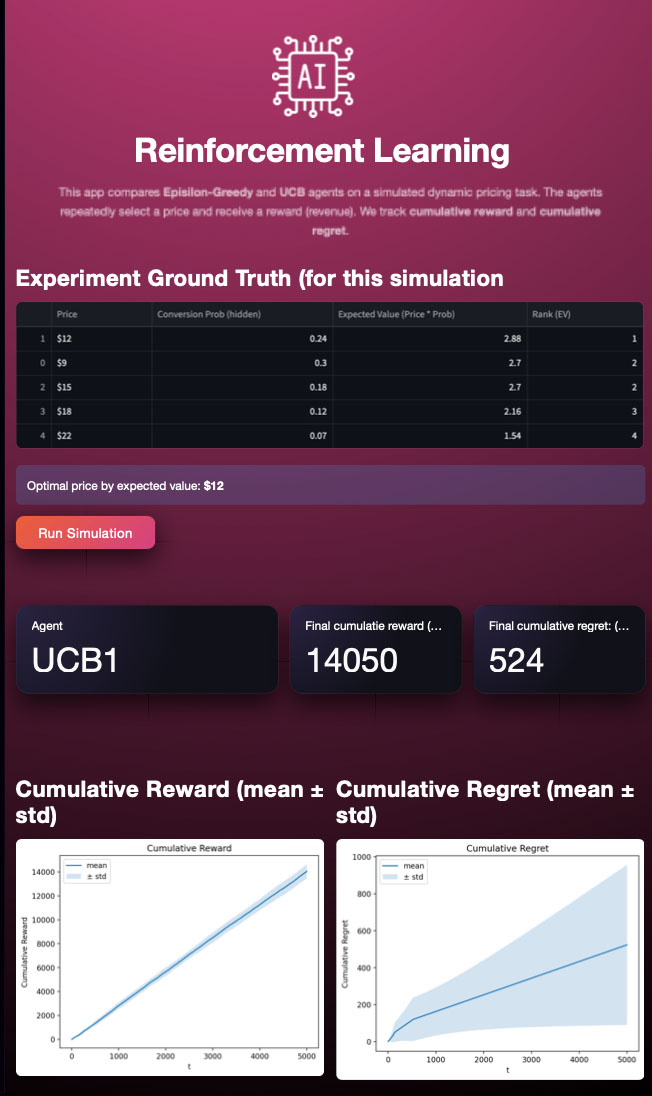
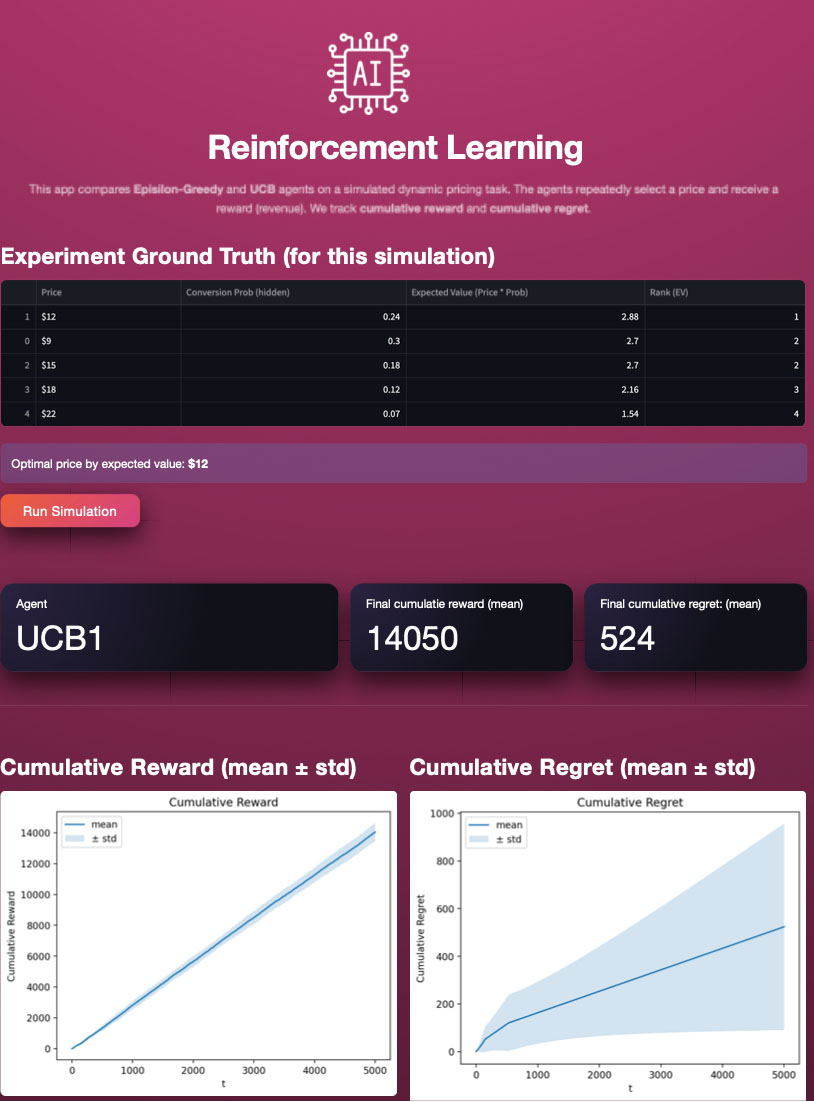
fix(ui-cleanup): Update README and clean up images

diff --git a/reinforcement-learning/app/app.py b/reinforcement-learning/app/app.py
@@ -162,7 +162,7 @@ def main():
     )
 
     # Show the "ground truth" expected values for this simulation (great for explantion)
-    st.subheader('Experiment Ground Truth (for this simulation')
+    st.subheader('Experiment Ground Truth (for this simulation)')
     ev_df = compute_expected_value_table(cfg.prices, cfg.probs)
     st.dataframe(ev_df, width='stretch')
 

diff --git a/README.md b/README.md
@@ -1,2 +1,93 @@
-# ai-ml
-A collection of cool AI and ML projects
+# AI/Machine Learning Portfolio
+
+## Overview
+
+This repository contains a curated portfolio of end-to-end AI/ML projects demonstrating practical, production-oriented machine learning skills across multiple domains.
+
+Each project focuses on:
+- real-world problem framing
+- sound modeling choices
+- proper evaluation metrics
+- interpretability and error analysis
+- deployable demos (where applicable)
+
+The goal of this portfolio is not academic breadth, but applied ML competence suitable for contract and consulting work.
+
+## Projects
+### Regression — Predictive Modeling
+**Focus**: Structured data regression
+- Feature engineering & preprocessing
+- Regularization (Ridge / Lasso)
+- Model evaluation & diagnostics
+- Clear business interpretation of results
+
+
+### Recommendation Systems
+**Focus**: User–item interaction modeling
+- Collaborative filtering
+- Baseline vs personalized models
+- Evaluation of recommendation quality
+- Practical recommendation logic
+
+### Time Series Forecasting
+**Focus**: Temporal demand forecasting
+- Train/validation splits respecting time
+- Feature engineering for seasonality & trends
+- Forecast evaluation and visualization
+- Deployment via interactive demo
+
+### Natural Language Processing (NLP) — Text Classification
+**Focus**: Unstructured text modeling
+- TF-IDF + Linear SVM pipeline
+- Hyperparameter tuning
+- Macro-F1 evaluation
+- Model explainability (token contributions)
+- Streamlit demo for live inference
+
+### Reinforcement Learning — Dynamic Pricing
+**Focus**: Sequential decision-making under uncertainty
+- Multi-armed bandit formulation
+- Epsilon-Greedy vs UCB1 comparison
+- Reward vs regret analysis
+- Multi-run statistical evaluation
+- Interactive Streamlit dashboard
+
+
+## Technical Stack
+- Python
+- NumPy, Pandas
+- scikit-learn
+- Matplotlib
+- Streamlit
+
+Projects emphasize **clarity, robustness, and interpretability** over unnecessary complexity.
+
+
+## Design Philosophy
+
+This portfolio intentionally prioritizes:
+- classical, well-understood algorithms
+- strong baselines before complexity
+- evaluation metrics aligned with business objectives
+- reproducibility and clean structure
+
+Modern ML systems often fail due to poor framing, evaluation, or interpretability — this work focuses on avoiding those pitfalls.
+
+## Intended Audience
+
+This repository is designed for:
+- companies seeking contract ML engineers
+- startups evaluating applied ML capability
+- technical interviews and live demos
+
+Each project can be explained clearly to both technical and non-technical stakeholders.
+
+## How to Navigate
+
+Each project folder contains:
+- a dedicated README
+- notebooks for exploration & analysis
+- clean training code
+- demo applications where relevant
+
+Start with the project READMEs for context and results.

diff --git a/product-recommendation-system/README.md b/product-recommendation-system/README.md
@@ -12,7 +12,7 @@ The system includes:
 
 ---
 
-## 🎯 Problem Statement
+## Problem Statement
 
 Given a user’s historical interactions (movie ratings),  
 **recommend the top-K movies** they are most likely to enjoy next.
@@ -24,7 +24,7 @@ This mirrors common personalization problems in:
 
 ---
 
-## 📦 Dataset
+## Dataset
 
 - **MovieLens (ml-latest-small)**
 - Source: GroupLens Research
@@ -40,7 +40,7 @@ Each rating includes:
 
 ---
 
-## 🧠 Approach
+## Approach
 
 ### 1. Data Splitting
 - **Time-based split per user**
@@ -67,7 +67,7 @@ Each rating includes:
 
 ---
 
-## 📊 Evaluation
+## Evaluation
 
 Models are evaluated using:
 - Precision@K
@@ -79,7 +79,7 @@ making the metrics realistic and leakage-free.
 
 ---
 
-## 🖥 Interactive Demo (Streamlit)
+## Interactive Demo (Streamlit)
 
 The project includes a Streamlit app that allows you to:
 - Select a user
@@ -92,3 +92,5 @@ The project includes a Streamlit app that allows you to:
 ```bash
 streamlit run app/app.py
 ```
+
+![Streamlit Demo](images/app-screenshot.jpg)

diff --git a/retail-demand-forecasting/README.md b/retail-demand-forecasting/README.md
@@ -4,9 +4,6 @@
 
 This project presents an end-to-end retail demand forecasting pipeline using weekly Walmart sales data. The objective is to predict future weekly sales while accounting for seasonality, holidays, store characteristics, and recent demand patterns. The project emphasizes time-series rigor, feature engineering, baseline comparisons, and model interpretability.
 
-## Demo
-
-![Streamlit Demo](images/app-screenshot.png)
 
 ## Problem Statement
 
@@ -62,6 +59,14 @@ The original dataset was denormalized; it was restructured into a production-sty
 
 
 **Gradient Boosting significantly outperformed all baselines by capturing nonlinear relationships and interactions in demand dynamics.**
+
+### Run the app:
+```bash
+streamlit run app/app.py
+```
+
+![Streamlit Demo](images/app-screenshot.jpg)
+
 
 ## Key Insights
 
